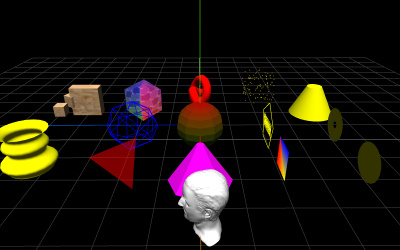
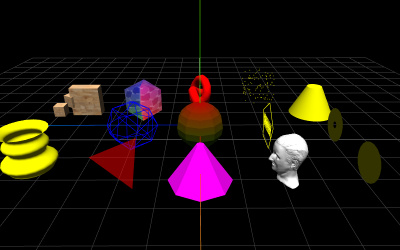
GLTFExporter: Remove truncateDrawRange option. (#24625)
* GLTFExporter: Remove truncateDrawRange option.

* Update screenshot.

* GLTFExporter: Clean up.

Changed region(s): [[0.45, 0.672, 0.57, 1.0], [0.66, 0.532, 0.78, 0.756]]

diff --git a/examples/misc_exporter_gltf.html b/examples/misc_exporter_gltf.html
@@ -39,7 +39,6 @@
 				const options = {
 					trs: params.trs,
 					onlyVisible: params.onlyVisible,
-					truncateDrawRange: params.truncateDrawRange,
 					binary: params.binary,
 					maxTextureSize: params.maxTextureSize
 				};
@@ -105,7 +104,6 @@
 			const params = {
 				trs: false,
 				onlyVisible: true,
-				truncateDrawRange: true,
 				binary: false,
 				maxTextureSize: 4096,
 				exportScene1: exportScene1,
@@ -346,44 +344,6 @@
 				scene1.add( object );
 
 				// ---------------------------------------------------------------------
-				// Buffer geometry truncated (DrawRange)
-				// ---------------------------------------------------------------------
-				geometry = new THREE.BufferGeometry();
-				const numElements = 6;
-				const outOfRange = 3;
-
-				positions = new Float32Array( ( numElements + outOfRange ) * 3 );
-				const colors = new Float32Array( ( numElements + outOfRange ) * 3 );
-
-				positions.set( [
-					0, 0, 0,
-					0, 80, 0,
-					80, 0, 0,
-					80, 0, 0,
-					0, 80, 0,
-					80, 80, 0
-				] );
-
-				colors.set( [
-					1, 0, 0,
-					1, 0, 0,
-					1, 1, 0,
-					1, 1, 0,
-					0, 0, 1,
-					0, 0, 1,
-				] );
-
-				geometry.setAttribute( 'position', new THREE.BufferAttribute( positions, 3 ) );
-				geometry.setAttribute( 'color', new THREE.BufferAttribute( colors, 3 ) );
-				geometry.setDrawRange( 0, numElements );
-
-				object = new THREE.Mesh( geometry, new THREE.MeshBasicMaterial( { side: THREE.DoubleSide, vertexColors: true } ) );
-				object.name = 'Custom buffered truncated';
-				object.position.set( 140, - 40, - 200 );
-
-				scene1.add( object );
-
-				// ---------------------------------------------------------------------
 				// THREE.Points
 				// ---------------------------------------------------------------------
 				numPoints = 100;
@@ -462,7 +422,7 @@
 
 					waltHead = obj;
 					waltHead.scale.multiplyScalar( 1.5 );
-					waltHead.position.set( 400, 0, 0 );
+					waltHead.position.set( 200, - 40, - 200 );
 					scene1.add( waltHead );
 
 				} );
@@ -495,7 +455,6 @@
 				let h = gui.addFolder( 'Settings' );
 				h.add( params, 'trs' ).name( 'Use TRS' );
 				h.add( params, 'onlyVisible' ).name( 'Only Visible Objects' );
-				h.add( params, 'truncateDrawRange' ).name( 'Truncate Draw Range' );
 				h.add( params, 'binary' ).name( 'Binary (GLB)' );
 				h.add( params, 'maxTextureSize', 2, 8192 ).name( 'Max Texture Size' ).step( 1 );
 

diff --git a/examples/jsm/exporters/GLTFExporter.js b/examples/jsm/exporters/GLTFExporter.js
@@ -438,7 +438,6 @@ class GLTFWriter {
 			binary: false,
 			trs: false,
 			onlyVisible: true,
-			truncateDrawRange: true,
 			maxTextureSize: Infinity,
 			animations: [],
 			includeCustomExtensions: false
@@ -987,7 +986,6 @@ class GLTFWriter {
 	 */
 	processAccessor( attribute, geometry, start, count ) {
 
-		const options = this.options;
 		const json = this.json;
 
 		const types = {
@@ -1027,21 +1025,6 @@ class GLTFWriter {
 
 		if ( start === undefined ) start = 0;
 		if ( count === undefined ) count = attribute.count;
-
-		// @TODO Indexed buffer geometry with drawRange not supported yet
-		if ( options.truncateDrawRange && geometry !== undefined && geometry.index === null ) {
-
-			const end = start + count;
-			const end2 = geometry.drawRange.count === Infinity
-				? attribute.count
-				: geometry.drawRange.start + geometry.drawRange.count;
-
-			start = Math.max( start, geometry.drawRange.start );
-			count = Math.min( end, end2 ) - start;
-
-			if ( count < 0 ) count = 0;
-
-		}
 
 		// Skip creating an accessor if the attribute doesn't have data to export
 		if ( count === 0 ) return null;

diff --git a/docs/examples/en/exporters/GLTFExporter.html b/docs/examples/en/exporters/GLTFExporter.html
@@ -117,7 +117,6 @@
 		<ul>
 			<li>trs - bool. Export position, rotation and scale instead of matrix per node. Default is false</li>
 			<li>onlyVisible - bool. Export only visible objects. Default is true.</li>
-			<li>truncateDrawRange - bool. Export just the attributes within the drawRange, if defined, instead of exporting the whole array. Default is true.</li>
 			<li>binary - bool. Export in binary (.glb) format, returning an ArrayBuffer. Default is false.</li>
 			<li>maxTextureSize - int. Restricts the image maximum size (both width and height) to the given value. Default is Infinity.</li>
 			<li>animations - Array<[page:AnimationClip AnimationClip]>. List of animations to be included in the export.</li>

diff --git a/docs/examples/zh/exporters/GLTFExporter.html b/docs/examples/zh/exporters/GLTFExporter.html
@@ -117,7 +117,6 @@
 		<ul>
 			<li>trs - bool. Export position, rotation and scale instead of matrix per node. Default is false</li>
 			<li>onlyVisible - bool. Export only visible objects. Default is true.</li>
-			<li>truncateDrawRange - bool. Export just the attributes within the drawRange, if defined, instead of exporting the whole array. Default is true.</li>
 			<li>binary - bool. Export in binary (.glb) format, returning an ArrayBuffer. Default is false.</li>
 			<li>maxTextureSize - int. Restricts the image maximum size (both width and height) to the given value. Default is Infinity.</li>
 			<li>animations - Array<[page:AnimationClip AnimationClip]>. List of animations to be included in the export.</li>
